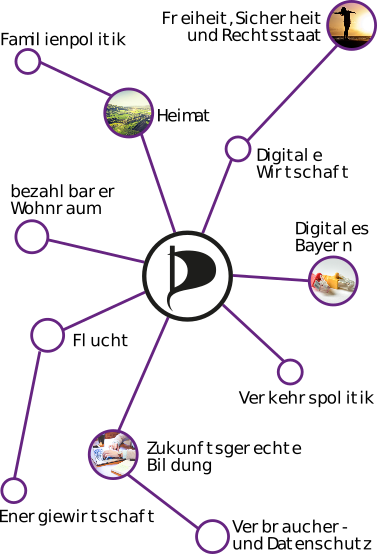
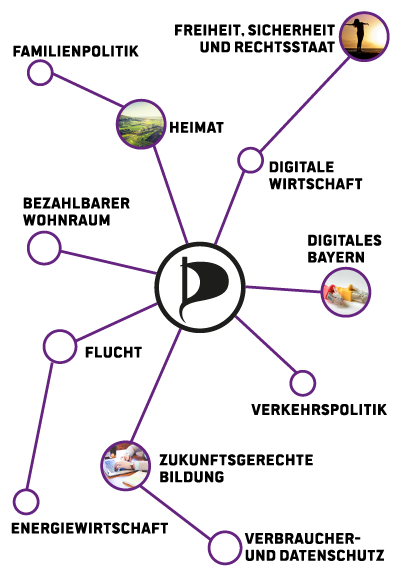
Widgets optimized

diff --git a/pirate-rogue-ltw18-child/style.css b/pirate-rogue-ltw18-child/style.css
@@ -136,6 +136,10 @@ h1.entry-title,
     border-color: #652480;
 }
 
+.widget h2.widget-title {
+    border-top-width: 0;
+}
+
 @media screen and (min-width: 25em) {
     #masthead .site-title {
         background-size: auto 100%;
@@ -192,6 +196,10 @@ h1.entry-title,
 
     #masthead .overlay-title-wrap .site-title {
         background-size: 100% auto;
+    }
+
+    .widget h2.widget-title {
+        border-top-width: 1px;
     }
 }
 

diff --git a/pirate-rogue-ltw18-child/Topic_Widget.php b/pirate-rogue-ltw18-child/Topic_Widget.php
@@ -21,7 +21,7 @@ class Topic_Widget extends WP_Widget
             echo $args['before_title'] . $title . $args['after_title'];
         }
         $id = 'pirate_rouge_ltw18_topic_wrapper_' . uniqid();
-        echo '<div id="' . $id . '-wrapper" style="position: relative;">';
+        echo '<div id="' . $id . '-wrapper" style="position: relative; text-align: center;">';
         echo '<img src="' . get_bloginfo('stylesheet_directory') . '/img/topics/topics.png"/>';
         echo '<a href="" id="' . $id . '" style="position: absolute; top: 0; bottom: 0; left: 0;">&nbsp;</a>';
         echo '</div>';
@@ -42,10 +42,16 @@ class Topic_Widget extends WP_Widget
                 var wrapper = document.getElementById(id + '-wrapper');
                 var a = wrapper.querySelector('a');
                 var img = wrapper.querySelector('img');
-                a.style.width = img.width + 'px';
-                img.onload = function () {
+
+                function applyImageSize() {
                     a.style.width = img.width + 'px';
-                };
+                    a.style.left = ((wrapper.offsetWidth - img.width) / 2) + 'px';
+                }
+
+                applyImageSize();
+                img.onload = applyImageSize;
+                window.addEventListener('resize', applyImageSize, true);
+
                 var prevHref;
                 var links = {
                     '/wahlprogramm-2018/familienpolitik': [
@@ -89,6 +95,7 @@ class Topic_Widget extends WP_Widget
                             a.style.display = 'block';
                         }, 1);
                     }
+                    // TODO: remove console.log
                     console.log(x, y, a.href);
                 }, true);
 

diff --git a/pirate-rogue-ltw18-child/page.php b/pirate-rogue-ltw18-child/page.php
@@ -1,0 +1,31 @@
+<?php
+/**
+ * The template for displaying all pages with
+ *
+ * @package Pirate Rogue
+ * @since Pirate Rogue 1.0
+ * @version 1.0
+ */
+
+get_header(); ?>
+
+    <div class="content-wrap">
+	<?php if ( '' != get_the_post_thumbnail() && ! post_password_required() ) : ?>
+	<div class="entry-thumbnail">
+		<a href="<?php the_permalink(); ?>"><?php the_post_thumbnail(); ?></a>
+	</div><!-- end .entry-thumbnail -->
+	<?php endif; ?>
+
+	<div id="blog-wrap" class="blog-wrap cf">
+        <?php get_sidebar( 'page' ); ?>
+		<div id="primary" class="site-content cf" role="main">
+		<?php
+			while ( have_posts() ) : the_post();
+				get_template_part( 'template-parts/content', 'page' );
+			endwhile;
+		?>
+		</div><!-- end #primary -->
+	</div>
+    </div>
+
+<?php get_footer(); ?>
